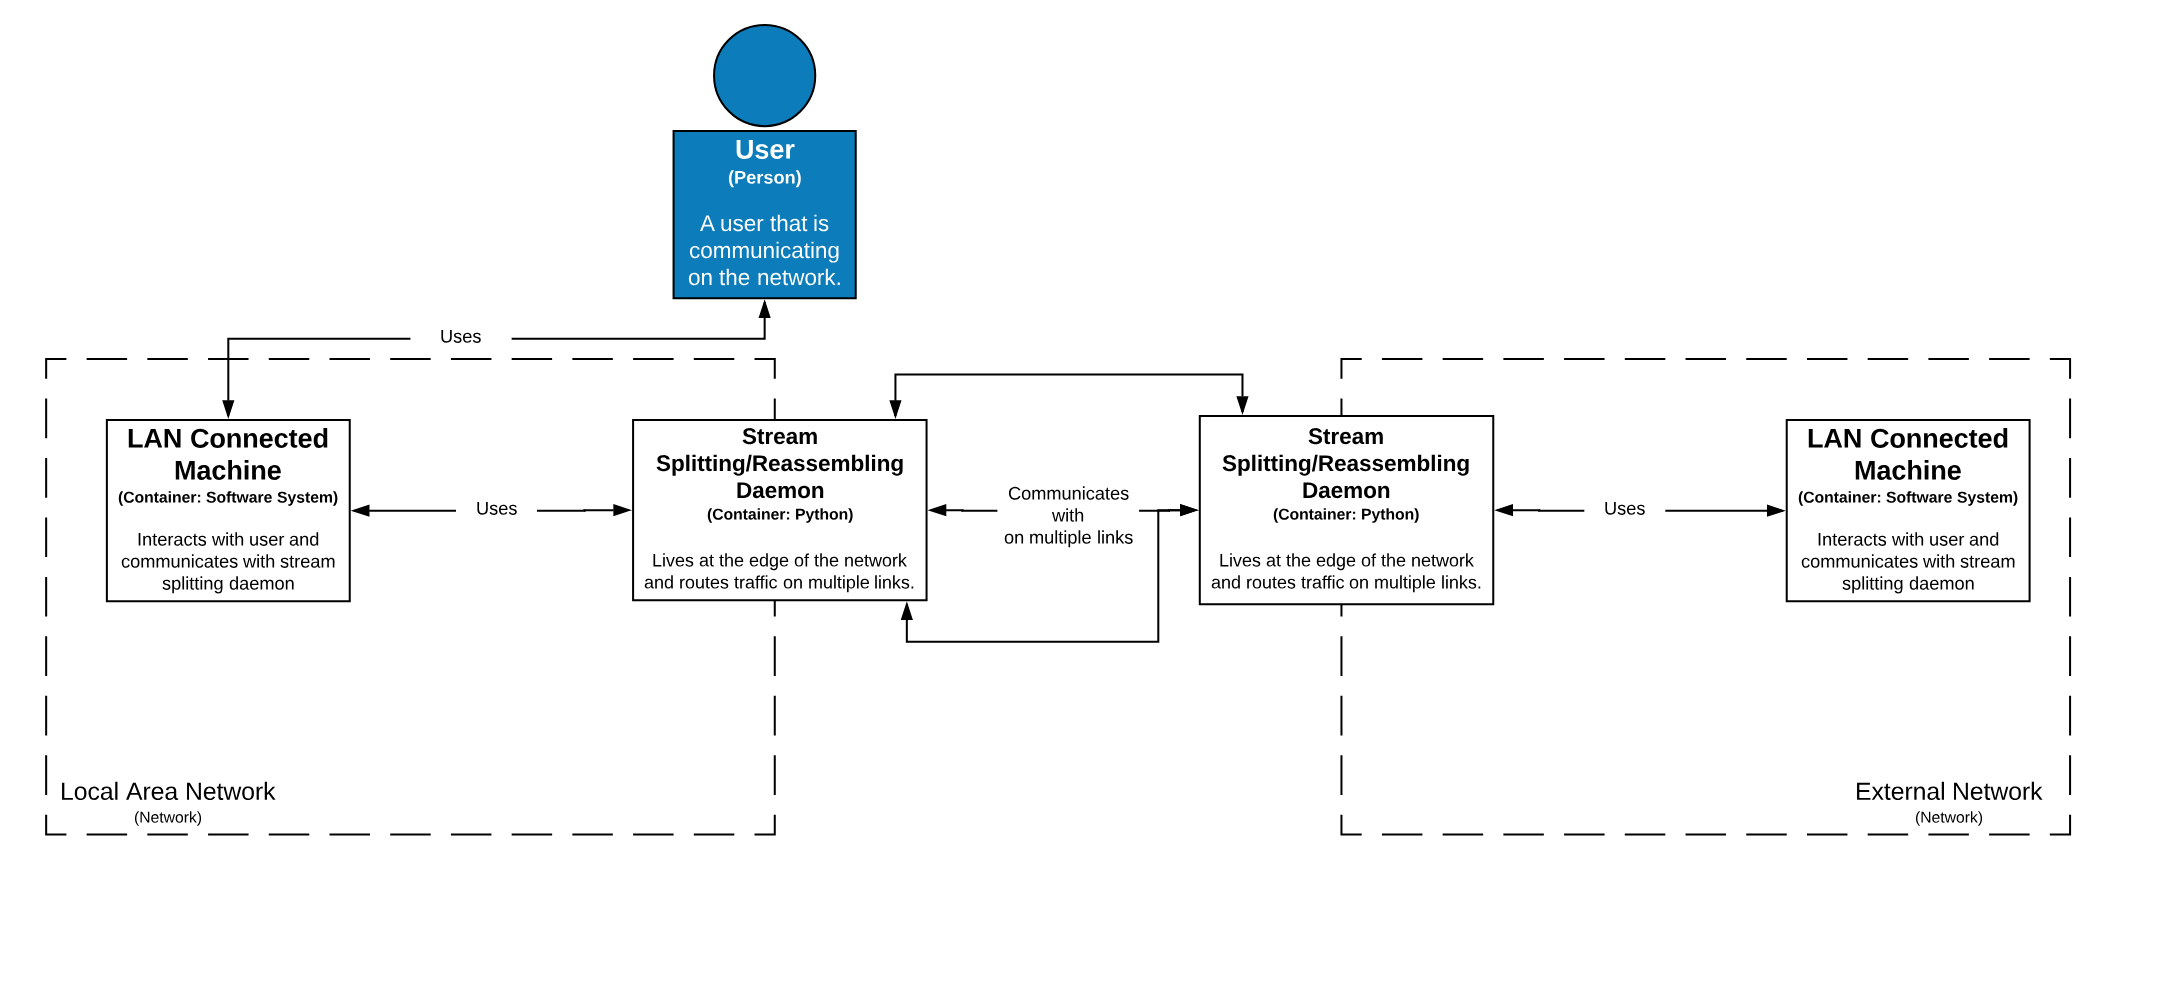
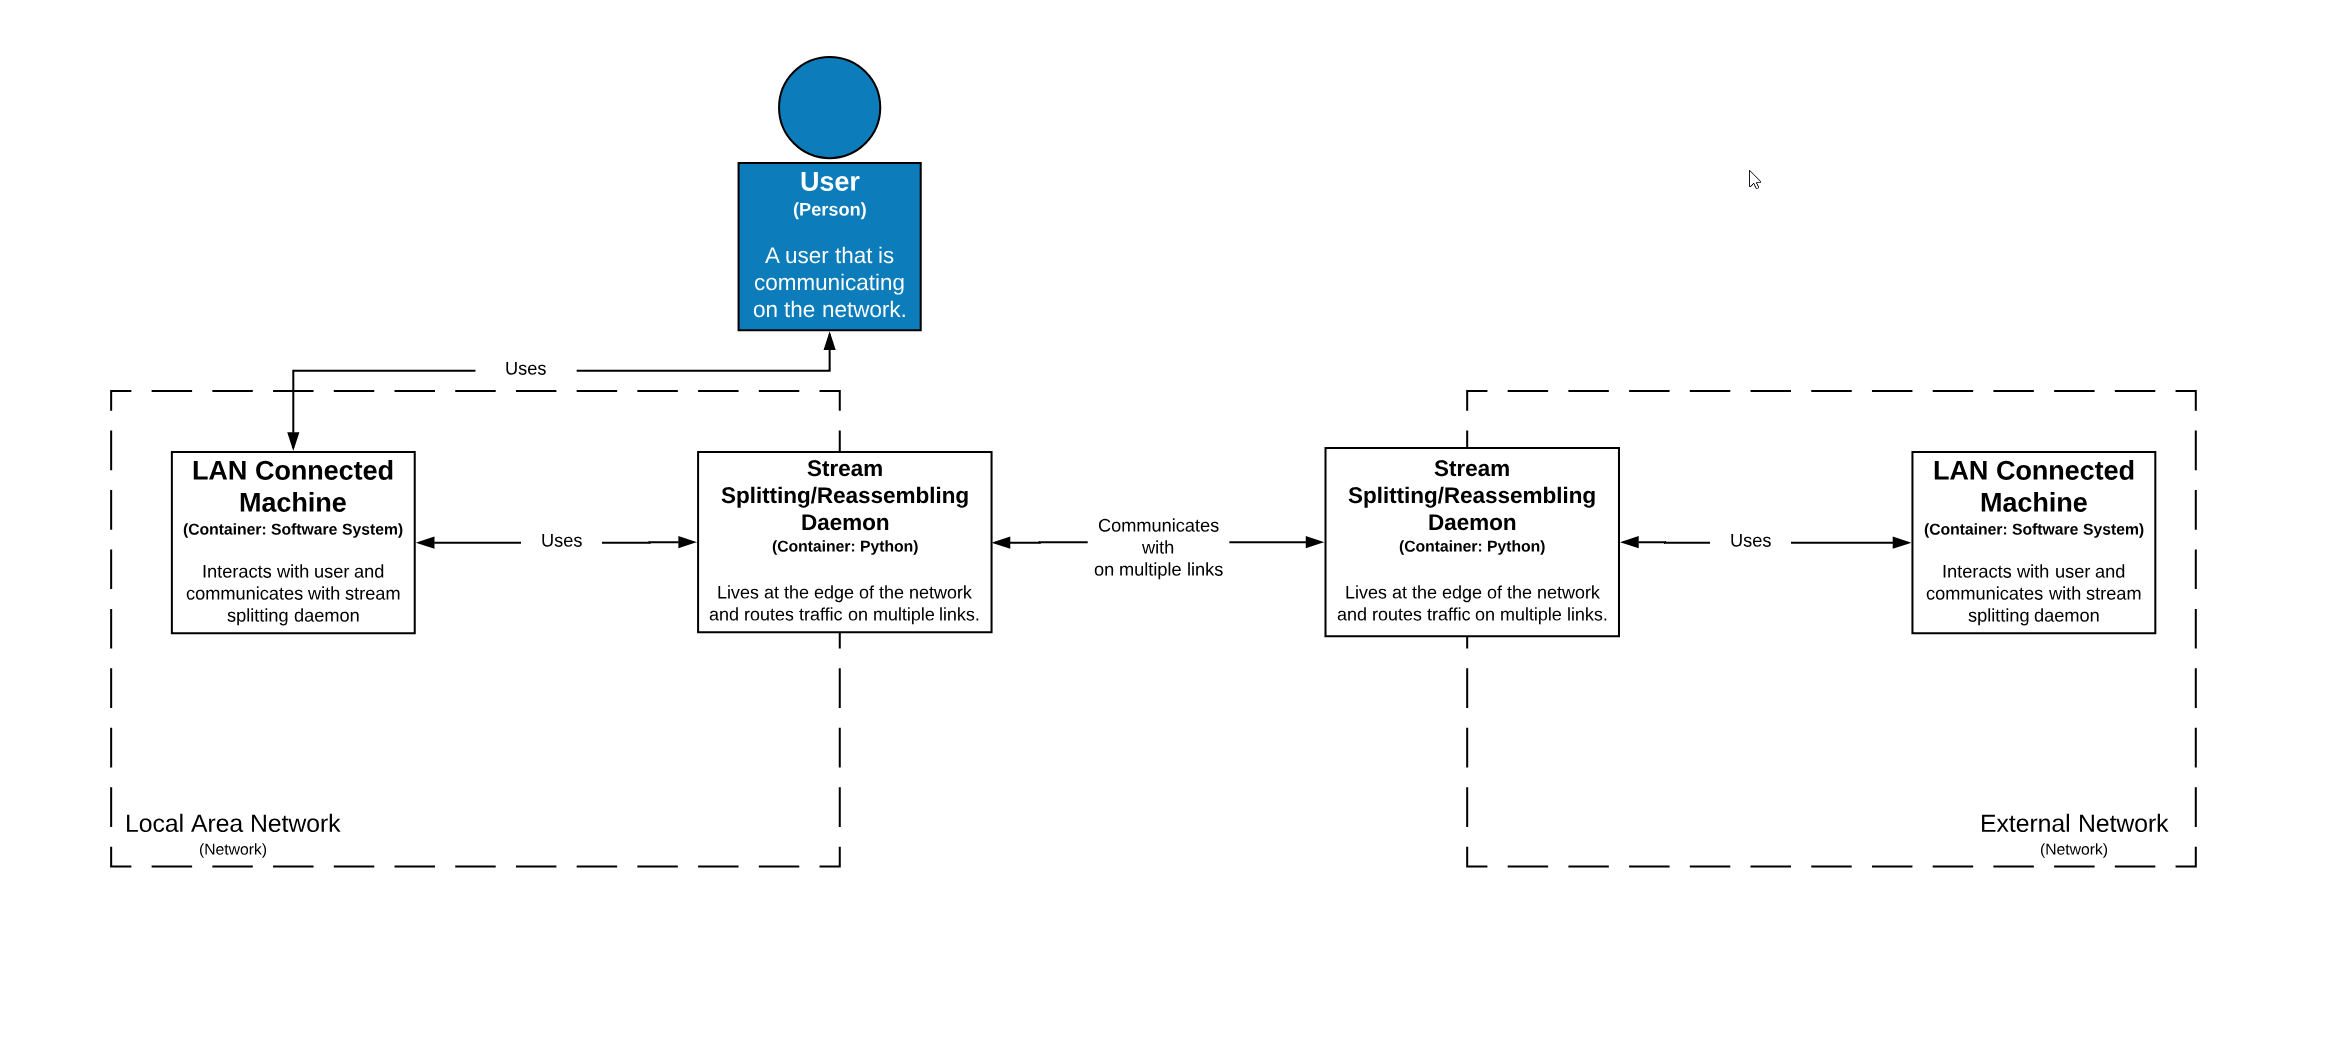
Revised the level 1 and 2 diagram. Started the literature review.

diff --git a/LiteratureReview.md b/LiteratureReview.md
@@ -1,0 +1,16 @@
+# Literature Review
+
+The following is a collection of past research project that were conducted on stream splitting moving target defense. There are a number of different
+sources from unique authors that offer a lot of background knowledge in the area of stream splitting. The applications of stream splitting
+specifically for moving target defense are not quite as thouroughly researched which provides an interesting opportunity.
+
+1. "***A Measurement-based Study of MultiPath TCP
+Performance over Wireless Networks***"
+
+I will put my summary of this paper here.
+
+
+#### Keyword Definitions
+
+* **MultiPath TCP (MPTCP)** -  An effort towards enabling the simultaneous use of several IP-addresses/interfaces by a modification of 
+TCP that presents a regular TCP interface to applications, while in fact spreading data across several subflows.

diff --git a/README.md b/README.md
@@ -1,4 +1,4 @@
-# CYBR-4580
+# Stream Splitting Moving Target Defense
 Repository for the capstone project. This is where we will compose our "proposal". This is all markdown so [here](https://www.markdownguide.org/cheat-sheet/) is a link to a helpful cheat sheet that you can use while writing your portion of the proposal. 
 
 ## Executive Summary
@@ -47,6 +47,9 @@ Loss of research (45)|10|2|A team member accidentally deletes a file. The team i
 
 #### Level 2
 ![alt text](https://github.com/xoBalt/Capstone-Stream-Splitting-MTD/blob/master/Level%202%20diagram.png)
+
+#### Level 3
+I will put the level 3 diagram here once it is finished.
 
 
 
